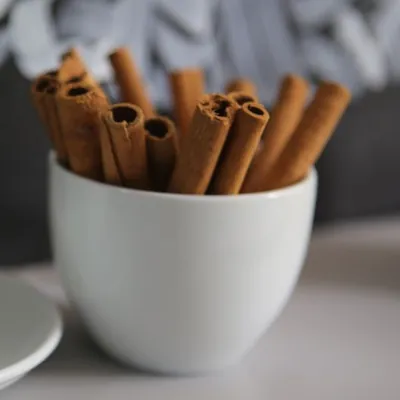
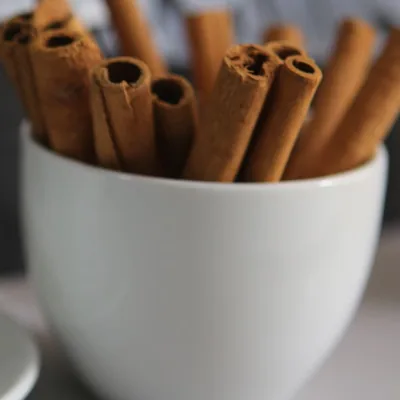
Site fala como a casa, sem o nome do Tiago, e foto de café preto
- Textos do site passam da terceira pessoa ("o Tiago faz") para a voz da
  Rodrigues TheBarber ("nós", "a gente"). Seção "Tiago Gouvea Rodrigues"
  vira "O jeito da casa"; galeria "Saiu da nossa cadeira". Avaliações
  dos clientes continuam como foram escritas.
- Mensagens prontas do painel para os clientes também no "nós".
- Mensagens de erro do banco falam em "a barbearia".
- Foto do café troca o cappuccino por café preto com pau de canela.
- Versão dos arquivos sobe para ?v=9.

Claude-Session: https://claude.ai/code/session_01WXqepbMxXr1hKVDbSLSWdo

diff --git a/index.html b/index.html
@@ -2,13 +2,13 @@
 <html lang="pt-BR">
 <head>
   <meta charset="utf-8">
-  <!-- Proteção do site: o navegador só roda os scripts daqui, só conversa com a agenda do Tiago
+  <!-- Proteção do site: o navegador só roda os scripts daqui, só conversa com a agenda da barbearia
        e só abre o mapa do Google. Ao mudar o script pequeno do <head>, atualize o sha256 (veja docs/SEGURANCA.md). -->
   <meta http-equiv="Content-Security-Policy" content="default-src 'self'; script-src 'self' 'sha256-Du+OJKJSbdUgz5nrHeWWINvez6XKDDU/tyj/5c2uvwo='; style-src 'self' 'unsafe-inline' https://fonts.googleapis.com; font-src https://fonts.gstatic.com; img-src 'self' data:; connect-src 'self' https://rodrigues-painel-tiago.adeptcharm4.chatgpt.site https://*.supabase.co; frame-src https://www.google.com https://maps.google.com; object-src 'none'; base-uri 'self'; form-action 'self'; upgrade-insecure-requests">
   <meta name="referrer" content="strict-origin-when-cross-origin">
   <meta name="viewport" content="width=device-width, initial-scale=1">
   <title>Rodrigues TheBarber | Barbearia em Eldorado do Sul</title>
-  <meta name="description" content="Barbearia do Tiago Gouvea Rodrigues em Eldorado do Sul, RS. Degradê, barba, pigmentação, luzes e platinado com hora marcada. Agende pelo site.">
+  <meta name="description" content="Rodrigues TheBarber, barbearia em Eldorado do Sul, RS. Degradê, barba, pigmentação, luzes e platinado, com hora marcada. Agende pelo site.">
   <meta name="theme-color" content="#000000">
   <meta property="og:type" content="website">
   <meta property="og:title" content="Rodrigues TheBarber">
@@ -24,7 +24,7 @@
   <link rel="stylesheet" href="https://fonts.googleapis.com/css2?family=Archivo:wdth,wght@62..125,400..800&family=Bodoni+Moda:ital,opsz,wght@0,6..96,500..800;1,6..96,500..700&family=Nothing+You+Could+Do&display=swap">
   <link rel="preload" as="image" href="img/tiago-retrato-900.webp" imagesrcset="img/tiago-retrato-480.webp 480w, img/tiago-retrato-900.webp 900w" imagesizes="(min-width: 900px) 34vw, 70vw">
   <!-- ?v=: aumente o número sempre que mudar o CSS ou o JS, para o navegador baixar a versão nova -->
-  <link rel="stylesheet" href="css/style.css?v=8">
+  <link rel="stylesheet" href="css/style.css?v=9">
   <script>document.documentElement.classList.add('js')</script>
   <script type="application/ld+json">
   {
@@ -73,7 +73,7 @@
 
   <main id="conteudo">
     <!-- Abertura: letreiro em folha de ouro, poste giratório e a vitrine em arco,
-         iluminados como o retrato do Tiago: feixes violeta e fumaça -->
+         iluminados como o retrato da abertura: feixes violeta e fumaça -->
     <section class="abertura" id="inicio" aria-labelledby="titulo">
       <div class="abertura-luz" aria-hidden="true">
         <span class="fumaca fumaca-1"></span>
@@ -86,7 +86,7 @@
           <span class="letreiro-linha letreiro-2">TheBarber</span>
         </h1>
         <p class="abertura-frase">Aqui o casual vira chique.</p>
-        <p class="abertura-sub">Degradê, barba na navalha, pigmentação e platinado com o Tiago, que atende um cliente por vez e com hora marcada.</p>
+        <p class="abertura-sub">Degradê, barba na navalha, pigmentação e platinado, feitos com calma e capricho em cada detalhe.</p>
         <div class="abertura-acoes">
           <a class="botao botao-ouro" href="#agendar">Agendar horário</a>
           <a class="botao botao-linha" href="#precos">Ver preços</a>
@@ -103,7 +103,7 @@
           <span class="selo-num">20+</span>
           <span class="selo-txt">anos de<br>cadeira</span>
         </p>
-        <p class="assinatura">Tiago Rodrigues</p>
+        <p class="assinatura">Rodrigues TheBarber</p>
       </div>
 
       <!-- faixa de informações rápidas no pé da abertura -->
@@ -126,11 +126,11 @@
         <h2 id="hm-titulo" class="hm-titulo">A cadeira espera por você.</h2>
         <p class="hm-sub">Um cliente por vez, sempre com hora marcada.</p>
         <a class="botao botao-ouro" href="#agendar">Marcar meu horário</a>
-        <p class="hm-encaixe">Sem horário? Se a cadeira estiver livre, o Tiago encaixa.</p>
+        <p class="hm-encaixe">Sem horário? Se a cadeira estiver livre, a gente encaixa.</p>
       </div>
 
       <!-- cartão de horário de barbearia: mostra o agendamento em vez de explicar -->
-      <figure class="cartao" id="cartao" aria-label="Exemplo de cartão de horário: você agenda, o Tiago confirma pelo WhatsApp e a cadeira fica reservada.">
+      <figure class="cartao" id="cartao" aria-label="Exemplo de cartão de horário: você agenda, a cadeira fica reservada e a confirmação chega pelo WhatsApp.">
         <div class="cartao-corpo" aria-hidden="true">
           <div class="cartao-topo">
             <span class="marca-r">R</span>
@@ -162,7 +162,7 @@
           <p>A única barbearia de Eldorado do Sul que serve café. Enquanto a cadeira te espera, aproveite nosso café especial com toque de canela.</p>
         </div>
         <div class="cafe-fotos">
-          <img class="cafe-foto" src="img/cafe-canela-900.webp" srcset="img/cafe-canela-480.webp 480w, img/cafe-canela-900.webp 900w" sizes="(min-width: 900px) 420px, 70vw" width="900" height="900" alt="Canela em pó caindo sobre uma xícara de café" loading="lazy" decoding="async">
+          <img class="cafe-foto" src="img/cafe-canela-900.webp" srcset="img/cafe-canela-480.webp 480w, img/cafe-canela-900.webp 900w" sizes="(min-width: 900px) 420px, 70vw" width="900" height="900" alt="Xícara de café preto com um pau de canela" loading="lazy" decoding="async">
           <img class="cafe-detalhe" src="img/canela-paus-400.webp" width="400" height="400" alt="" loading="lazy" decoding="async">
         </div>
       </div>
@@ -172,7 +172,7 @@
     <section class="precos faixa-carvao" id="precos" aria-labelledby="precos-titulo">
       <div class="secao-cabeca">
         <h2 id="precos-titulo" class="titulo">Tabela da casa</h2>
-        <p>Visagismo incluso: o Tiago indica o corte que combina com o formato do seu rosto. Pagamento no local, em dinheiro, Pix ou cartão.</p>
+        <p>Visagismo incluso: indicamos o corte que combina com o formato do seu rosto. Pagamento no local, em dinheiro, Pix ou cartão.</p>
       </div>
 
       <div class="quadro">
@@ -224,13 +224,13 @@
       <p class="precos-acao"><a class="botao botao-ouro" href="#agendar">Escolher serviço e horário</a></p>
     </section>
 
-    <!-- Trabalhos: fotos reais da cadeira do Tiago -->
+    <!-- Trabalhos: fotos reais da cadeira da casa -->
     <section class="trabalhos" id="trabalhos" aria-labelledby="trab-titulo">
       <!-- películas de filme 35 mm que deslizam ao rolar a página -->
       <div class="pelicula pelicula-topo" aria-hidden="true"><span class="pelicula-txt"></span></div>
       <div class="pelicula pelicula-base" aria-hidden="true"><span class="pelicula-txt"></span></div>
       <div class="secao-cabeca">
-        <h2 id="trab-titulo" class="titulo">Saiu da cadeira do Tiago</h2>
+        <h2 id="trab-titulo" class="titulo">Saiu da nossa cadeira</h2>
         <p>Fotos dos clientes logo depois do corte. Toque em uma foto para ampliar.</p>
       </div>
       <!-- fotos escritas aqui para o Google e outras ferramentas enxergarem; a lista em js/main.js precisa ter a mesma ordem -->
@@ -300,12 +300,12 @@
       <p class="galeria-mais"><a class="link-ouro" href="https://instagram.com/rodriguesthebarber4239" target="_blank" rel="noopener noreferrer">Veja mais cortes no Instagram @rodriguesthebarber4239</a></p>
     </section>
 
-    <!-- Sobre o Tiago -->
+    <!-- Sobre a casa (a marca fala no "nós"; o profissional não aparece pelo nome) -->
     <section class="tiago" aria-labelledby="tiago-titulo">
       <img class="tiago-fundo" src="img/estampa-barbeiro.webp" width="1400" height="1380" alt="" loading="lazy" decoding="async">
       <div class="tiago-texto">
-        <h2 id="tiago-titulo" class="titulo">Tiago Gouvea Rodrigues</h2>
-        <p>São mais de vinte anos de profissão, do degradê clássico ao freestyle, da barba na toalha quente ao platinado. O Tiago conversa antes de pegar a máquina, explica o que vai fazer e só termina quando o corte está do jeito que você imaginou.</p>
+        <h2 id="tiago-titulo" class="titulo">O jeito da casa</h2>
+        <p>São mais de vinte anos de profissão, do degradê clássico ao freestyle, da barba na toalha quente ao platinado. Na Rodrigues TheBarber, a gente conversa antes de pegar a máquina, explica o que vai fazer e só termina quando o corte está do jeito que você imaginou. Prezamos pelo seu tempo e pela qualidade do resultado.</p>
         <blockquote>
           <p>Pelos longos anos que conheço esse profissional, sempre se dedicou não só nessa profissão, mas sim em tudo que presenciei, sempre em busca de chegar à perfeição.</p>
           <footer>Anderson Dutra, cliente, no Google</footer>
@@ -318,7 +318,7 @@
       </div>
     </section>
 
-    <!-- Agendamento ligado à agenda do Tiago -->
+    <!-- Agendamento ligado à agenda da barbearia -->
     <section class="agendar" id="agendar" aria-labelledby="ag-titulo">
       <!-- relógio de parede de barbearia: marca a hora real e gira até o horário escolhido -->
       <svg class="relogio" id="relogio" viewBox="-100 -100 200 200" aria-hidden="true">
@@ -339,7 +339,7 @@
       </svg>
       <div class="agendar-lado">
         <h2 id="ag-titulo" class="titulo">Agendar horário</h2>
-        <p>O horário fica reservado quando o Tiago confirma pelo WhatsApp.</p>
+        <p>O horário fica reservado na hora. Se precisar mudar algo, a gente avisa pelo WhatsApp.</p>
         <ul class="agendar-info">
           <li>Remarcar ou cancelar: <a class="link-ouro" href="https://wa.me/5551994659011" target="_blank" rel="noopener noreferrer">(51) 99465-9011</a></li>
           <li>Pagamento no local: dinheiro, Pix ou cartão</li>
@@ -399,10 +399,10 @@
         <details class="privacidade" id="privacidade">
           <summary>Ao solicitar, você concorda com o uso dos seus dados para o agendamento. <span>Como seus dados são usados</span></summary>
           <div class="privacidade-texto">
-            <p><strong>Quem recebe:</strong> Tiago Gouvea Rodrigues, da Rodrigues TheBarber.</p>
+            <p><strong>Quem recebe:</strong> a Rodrigues TheBarber.</p>
             <p><strong>O que é coletado:</strong> nome, WhatsApp, serviço, dia, horário e a observação, se você escrever uma.</p>
-            <p><strong>Para quê:</strong> registrar o seu pedido na agenda do Tiago e confirmar, remarcar ou cancelar o horário pelo WhatsApp. Seus dados não são vendidos nem usados para propaganda.</p>
-            <p><strong>Onde ficam:</strong> no sistema de agenda da barbearia, que só o Tiago acessa.</p>
+            <p><strong>Para quê:</strong> registrar o seu pedido na agenda da barbearia e confirmar, remarcar ou cancelar o horário pelo WhatsApp. Seus dados não são vendidos nem usados para propaganda.</p>
+            <p><strong>Onde ficam:</strong> no sistema de agenda da barbearia, com acesso restrito à casa.</p>
             <p><strong>Seus direitos:</strong> você pode pedir para ver, corrigir ou apagar seus dados a qualquer momento pelo WhatsApp <a class="link-ouro" href="https://wa.me/5551994659011" target="_blank" rel="noopener noreferrer">(51) 99465-9011</a>.</p>
             <p>Este site não usa cookies nem ferramentas de rastreamento. O mapa da seção "Onde fica" é do Google e segue a política de privacidade do Google.</p>
           </div>
@@ -534,6 +534,6 @@
     <button type="button" class="seta seta-prox" aria-label="Próxima foto"><svg viewBox="0 0 24 24" aria-hidden="true"><path d="m9 5 7 7-7 7"/></svg></button>
   </dialog>
 
-  <script src="js/main.js?v=8" type="module"></script>
+  <script src="js/main.js?v=9" type="module"></script>
 </body>
 </html>

diff --git a/js/main.js b/js/main.js
@@ -601,11 +601,11 @@ function mostrarEnvioWhatsApp(pedido, numero, confirmado) {
   aviso.hidden = false;
   aviso.className = 'aviso ok';
   aviso.innerHTML = `<h3>${confirmado ? 'Horário reservado!' : 'Falta só um passo'}</h3>
-    <p>${confirmado ? 'Agora envie a mensagem no WhatsApp para avisar o Tiago:' : 'Envie o pedido no WhatsApp da barbearia para o Tiago receber agora:'}</p>
+    <p>${confirmado ? 'Agora envie a mensagem no WhatsApp para avisar a barbearia:' : 'Envie o pedido no WhatsApp para a barbearia receber agora:'}</p>
     <p><a class="botao botao-ouro botao-wpp" href="${esc(linkWhatsApp(texto))}" target="_blank" rel="noopener noreferrer">
       <svg viewBox="0 0 24 24" aria-hidden="true"><path d="M4 20l1.3-3.9A8 8 0 1 1 8 19z"/></svg>Enviar no WhatsApp</a></p>
     <p class="aviso-resumo">${esc(pedido.service)}, ${esc(diaPorExtenso(pedido.day))}, às ${esc(pedido.time)}. ${confirmado
-      ? 'Se precisar mudar algo, o Tiago te chama no WhatsApp.' : 'O horário fica reservado quando o Tiago confirmar.'}</p>`;
+      ? 'Se precisar mudar algo, a gente te chama no WhatsApp.' : 'O horário fica reservado quando a barbearia confirmar.'}</p>`;
 }
 
 function atualizarResumo() {
@@ -704,7 +704,7 @@ async function buscarHorarios() {
     if (minha !== consulta) return;
     if (!dados.enabled) {
       livres = []; desenharHorarios();
-      horariosStatus.textContent = 'Os pedidos pelo site estão pausados no momento. Fale com o Tiago pelo WhatsApp.';
+      horariosStatus.textContent = 'Os pedidos pelo site estão pausados no momento. Fale com a barbearia pelo WhatsApp.';
       return;
     }
     livres = dados.slots;
@@ -839,7 +839,7 @@ async function iniciarAgenda() {
   const usarBanco = SUPABASE.url && SUPABASE.chave;
   if (LOCAL && !new URLSearchParams(location.search).has('banco')) {
     // No computador de quem desenvolve, usa uma agenda simulada:
-    // nenhum pedido de teste chega ao painel do Tiago. (Para testar o banco de verdade, abra com ?banco)
+    // nenhum pedido de teste chega ao painel da barbearia. (Para testar o banco de verdade, abra com ?banco)
     chamarApi = (await import('./agenda-simulada.js')).chamarApi;
   } else if (usarBanco) {
     chamarApi = chamarSupabase;
@@ -863,11 +863,11 @@ async function iniciarAgenda() {
       Object.entries(dados.services).map(([nome, min]) => `<option value="${esc(nome)}">${esc(nome)} · ${min} min</option>`).join('');
     servico.disabled = false;
     if (!dados.enabled) {
-      mostrarAviso('falha', 'Agenda pausada', 'Os pedidos pelo site estão pausados no momento. Fale com o Tiago pelo WhatsApp.', true);
+      mostrarAviso('falha', 'Agenda pausada', 'Os pedidos pelo site estão pausados no momento. Fale com a barbearia pelo WhatsApp.', true);
     }
   } catch {
     servico.innerHTML = '<option value="">Agenda indisponível</option>';
-    mostrarAviso('falha', 'A agenda não carregou', 'Recarregue a página em instantes ou peça seu horário direto ao Tiago.', true);
+    mostrarAviso('falha', 'A agenda não carregou', 'Recarregue a página em instantes ou peça seu horário direto pelo WhatsApp.', true);
   }
 }
 iniciarAgenda();

diff --git a/painel/painel.js b/painel/painel.js
@@ -463,9 +463,9 @@ function folhaRecusar(a) {
     f.querySelector('#ok').onclick = async (ev) => {
       const ok = await executar(ev.currentTarget, () => dados.atualizarAgendamento(a.id, { status: 'recusado' }), { log: `recusou o pedido de ${a.nome} (${diaExtenso(a.dia)} ${a.hora})` });
       if (!ok) return;
-      const txt = { ocupado: `Infelizmente não vou conseguir te atender ${diaExtenso(a.dia)} às ${horaFalada(a.hora)}.`, fora: `Infelizmente não vou atender ${diaExtenso(a.dia)}.`, outro: 'Infelizmente não vou conseguir nesse horário.' }[motivo];
+      const txt = { ocupado: `Infelizmente não vamos conseguir te atender ${diaExtenso(a.dia)} às ${horaFalada(a.hora)}.`, fora: `Infelizmente não vamos atender ${diaExtenso(a.dia)}.`, outro: 'Infelizmente não vamos conseguir nesse horário.' }[motivo];
       folhaMensagem('Pedido recusado', a, `Olá, ${primeiroNome(a.nome)}! ${txt}` +
-        (sugestao ? ` Tenho horário ${diaExtenso(sugestao.dia)} às ${horaFalada(sugestao.hora)}. Quer que eu reserve para você?` : ' Me diga outro dia que te encaixo.'));
+        (sugestao ? ` Temos horário ${diaExtenso(sugestao.dia)} às ${horaFalada(sugestao.hora)}. Quer que a gente reserve para você?` : ' Diga outro dia que a gente te encaixa.'));
     };
   });
 }
@@ -600,7 +600,7 @@ function folhaCliente(a, doLink = false) {
       }
       if (x === 'cancelar') {
         const ok = await executar(b, () => dados.atualizarAgendamento(a.id, { status: 'cancelado' }), { log: `cancelou o horário de ${a.nome} (${diaExtenso(a.dia)} ${a.hora})` });
-        if (ok) folhaMensagem('Horário cancelado', a, `Olá, ${primeiroNome(a.nome)}! Precisei cancelar seu horário de ${diaExtenso(a.dia)} às ${horaFalada(a.hora)}. Me desculpe. Quer marcar outro dia?`);
+        if (ok) folhaMensagem('Horário cancelado', a, `Olá, ${primeiroNome(a.nome)}! Precisamos cancelar seu horário de ${diaExtenso(a.dia)} às ${horaFalada(a.hora)}. Pedimos desculpas. Quer marcar outro dia?`);
         return;
       }
       fecharFolha();
@@ -693,7 +693,7 @@ function folhaRemarcar(a) {
       const antes = `${diaExtenso(a.dia)} às ${a.hora}`;
       const ok = await executar(ev.currentTarget, () => dados.atualizarAgendamento(a.id, { dia, hora, status: a.status === 'pendente' ? 'confirmado' : a.status }),
         { log: `remarcou ${a.nome} de ${antes} para ${diaExtenso(dia)} às ${hora}` });
-      if (ok) folhaMensagem('Horário remarcado', { ...a, dia, hora }, `Olá, ${primeiroNome(a.nome)}! Seu horário foi remarcado para ${diaExtenso(dia)} às ${horaFalada(hora)}. Qualquer coisa, me chama aqui.`);
+      if (ok) folhaMensagem('Horário remarcado', { ...a, dia, hora }, `Olá, ${primeiroNome(a.nome)}! Seu horário foi remarcado para ${diaExtenso(dia)} às ${horaFalada(hora)}. Qualquer coisa, chama a gente aqui.`);
     };
   });
 }

diff --git a/painel/index.html b/painel/index.html
@@ -18,9 +18,9 @@
   <link rel="preconnect" href="https://fonts.googleapis.com">
   <link rel="preconnect" href="https://fonts.gstatic.com" crossorigin>
   <link rel="stylesheet" href="https://fonts.googleapis.com/css2?family=Archivo:wdth,wght@62..125,400..800&family=Bodoni+Moda:ital,opsz,wght@0,6..96,500..800;1,6..96,500..700&display=swap">
-  <link rel="stylesheet" href="painel.css?v=8">
+  <link rel="stylesheet" href="painel.css?v=9">
   <script src="vendor/supabase-2.118.0.js" defer></script>
-  <script src="painel.js?v=8" type="module"></script>
+  <script src="painel.js?v=9" type="module"></script>
 </head>
 <body>
   <div id="faixa-demo" class="faixa-demo" hidden>Modo demonstração · dados de exemplo · nada é gravado</div>
